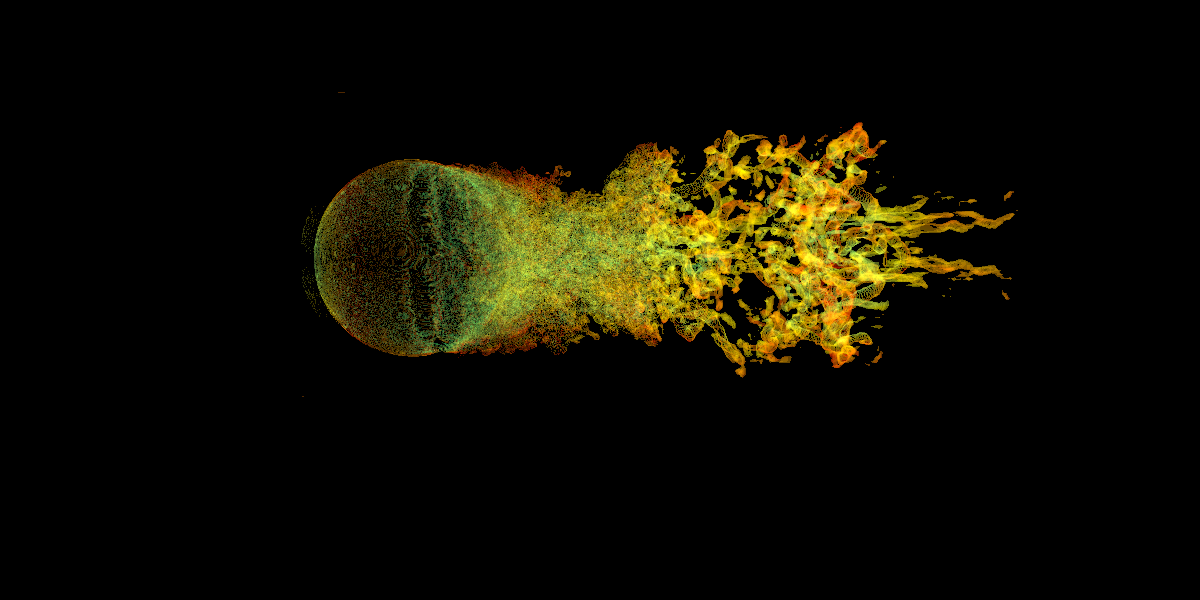
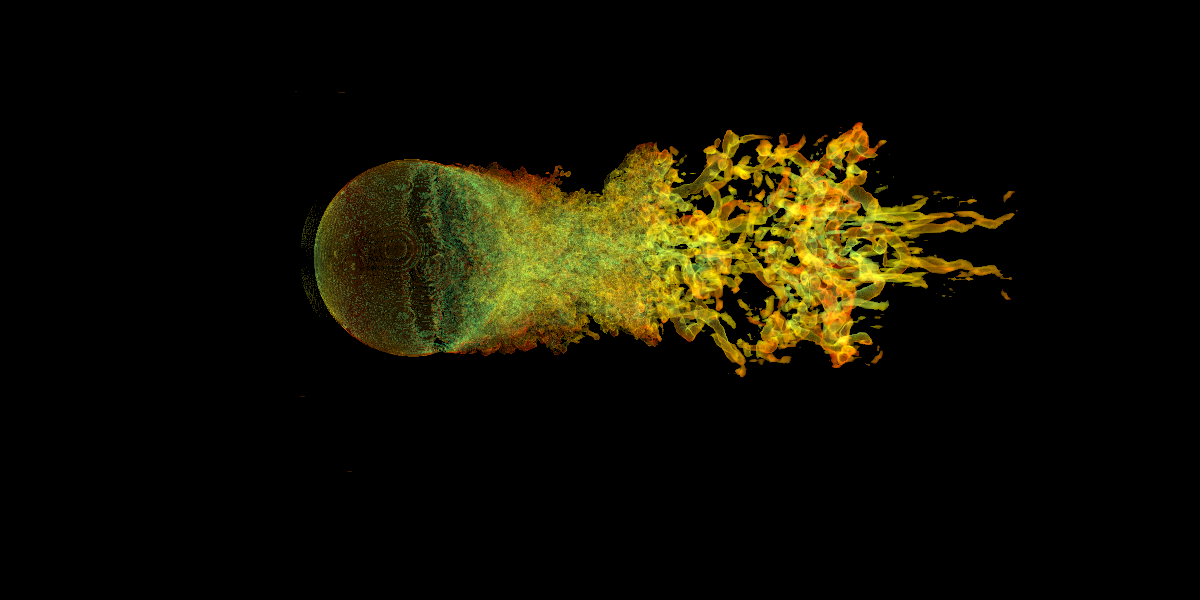
add surface rendering

diff --git a/src/geometry.cpp b/src/geometry.cpp
@@ -1,0 +1,65 @@
+#include "geometry.h"
+#include "common.h"
+
+TriangleMesh::TriangleMesh(std::vector<Vec3f> vertices, std::vector<Vec3f> normals, std::vector<int> v_index,
+                           std::vector<int> n_index) : vertices(std::move(vertices)),
+                                                       normals(std::move(normals)),
+                                                       v_indices(std::move(v_index)),
+                                                       n_indices(std::move(n_index)) {}
+
+bool TriangleMesh::intersect(Ray &ray, Interaction &interaction) const {
+    for (int i = 0; i < v_indices.size() / 3; i++) {
+        Vec3i v_idx(v_indices[3 * i], v_indices[3 * i + 1], v_indices[3 * i + 2]);
+        Vec3i n_idx(n_indices[3 * i], n_indices[3 * i + 1], n_indices[3 * i + 2]);
+        Interaction temp;
+        if (intersectOneTriangle(ray, temp, v_idx, n_idx) && (temp.dist < interaction.dist)) {
+            interaction = temp;
+        }
+    }
+    return interaction.dist < RAY_DEFAULT_MAX;
+}
+
+std::vector<Vec3f> TriangleMesh::getVertices() {
+    return vertices;
+}
+
+std::vector<Vec3f> TriangleMesh::getNormals() {
+    return normals;
+}
+
+std::vector<int> TriangleMesh::getVIndex() {
+    return v_indices;
+}
+
+std::vector<int> TriangleMesh::getNIndex() {
+    return n_indices;
+}
+
+bool
+TriangleMesh::intersectOneTriangle(Ray &ray, Interaction &interaction, const Vec3i &v_idx, const Vec3i &n_idx) const {
+    Vec3f v0 = vertices[v_idx[0]];
+    Vec3f v1 = vertices[v_idx[1]];
+    Vec3f v2 = vertices[v_idx[2]];
+    Vec3f v0v1 = v1 - v0;
+    Vec3f v0v2 = v2 - v0;
+    Vec3f pVec = ray.dir().cross(v0v2);
+    float det = v0v1.dot(pVec);
+
+    float invDet = 1.0f / det;
+
+    Vec3f tVec = ray.eye() - v0;
+    float u = tVec.dot(pVec) * invDet;
+    if (u < 0 || u > 1) return false;
+    Vec3f qVec = tVec.cross(v0v1);
+    float v = ray.dir().dot(qVec) * invDet;
+    if (v < 0 || u + v > 1) return false;
+    float t = v0v2.dot(qVec) * invDet;
+    if (t < ray.t0() || t > ray.t1()) return false;
+
+    interaction.dist = t;
+    interaction.pos = ray(t);
+    interaction.normal = (u * normals[n_idx[1]] + v * normals[n_idx[2]]
+                          + (1 - u - v) * normals[n_idx[0]]);
+    interaction.normal.normalize();
+    return true;
+}

diff --git a/include/geometry.h b/include/geometry.h
@@ -1,0 +1,35 @@
+#ifndef CS171_FINAL_PROJECT_GEOMETRY_H
+#define CS171_FINAL_PROJECT_GEOMETRY_H
+
+#include "common.h"
+#include "interaction.h"
+
+class TriangleMesh {
+public:
+    TriangleMesh() = default;
+
+    TriangleMesh(std::vector<Vec3f> vertices,
+                 std::vector<Vec3f> normals,
+                 std::vector<int> v_index,
+                 std::vector<int> n_index);
+
+    bool intersect(Ray &ray, Interaction &interaction) const;
+
+    std::vector<Vec3f> getVertices();
+
+    std::vector<Vec3f> getNormals();
+
+    std::vector<int> getVIndex();
+
+    std::vector<int> getNIndex();
+
+private:
+    bool intersectOneTriangle(Ray &ray, Interaction &interaction, const Vec3i &v_idx, const Vec3i &n_idx) const;
+    std::vector<Vec3f> vertices;
+    std::vector<Vec3f> normals;
+    std::vector<int> v_indices;
+    std::vector<int> n_indices;
+};
+
+
+#endif //CS171_FINAL_PROJECT_GEOMETRY_H

diff --git a/src/Reader.cpp b/src/Reader.cpp
@@ -58,8 +58,8 @@ void Reader::loadObj(const std::string &dir, std::vector<Vec3f> &vertices, std::
      * @param dir: the directory of the .obj file
      * @param vertices: the vector of vertices
      * @param normals: the vector of normals
-     * @param v_index: the vector of vertex n_index
-     * @param n_index: the vector of n_index
+     * @param v_indices: the vector of vertex n_indices
+     * @param n_indices: the vector of n_indices
      * */
     std::cout << "loading obj file:" << dir << std::endl;
     tinyobj::ObjReaderConfig reader_config;

diff --git a/src/main.cpp b/src/main.cpp
@@ -12,7 +12,7 @@ int main() {
     std::vector<Vec3fGrid::Ptr> VectorGrids = Reader::readGrids("dataset/multi-res big.vdb");
     std::vector<vdbGrid> ScalarGrids = util::convertVectorGridsToScalarGrids(VectorGrids);
 
-    std::shared_ptr<ImageRGB> image = std::make_shared<ImageRGB>(3840, 2160);
+    std::shared_ptr<ImageRGB> image = std::make_shared<ImageRGB>(1200, 600);
     Camera cam(Vec3f(3, 3.2, 15), 19.5, 1, Vec3f(10, 0, -10), Vec3f(0, 1, 0), image);
     Scene scene;
     scene.setGrids(ScalarGrids);

diff --git a/include/interaction.h b/include/interaction.h
@@ -1,0 +1,12 @@
+#ifndef CS171_FINAL_PROJECT_INTERACTION_H
+#define CS171_FINAL_PROJECT_INTERACTION_H
+
+#include "common.h"
+
+struct Interaction {
+    Vec3f pos{0,0,0};
+    float dist{RAY_DEFAULT_MAX};
+    Vec3f normal{0,0,0};
+};
+
+#endif //CS171_FINAL_PROJECT_INTERACTION_H
